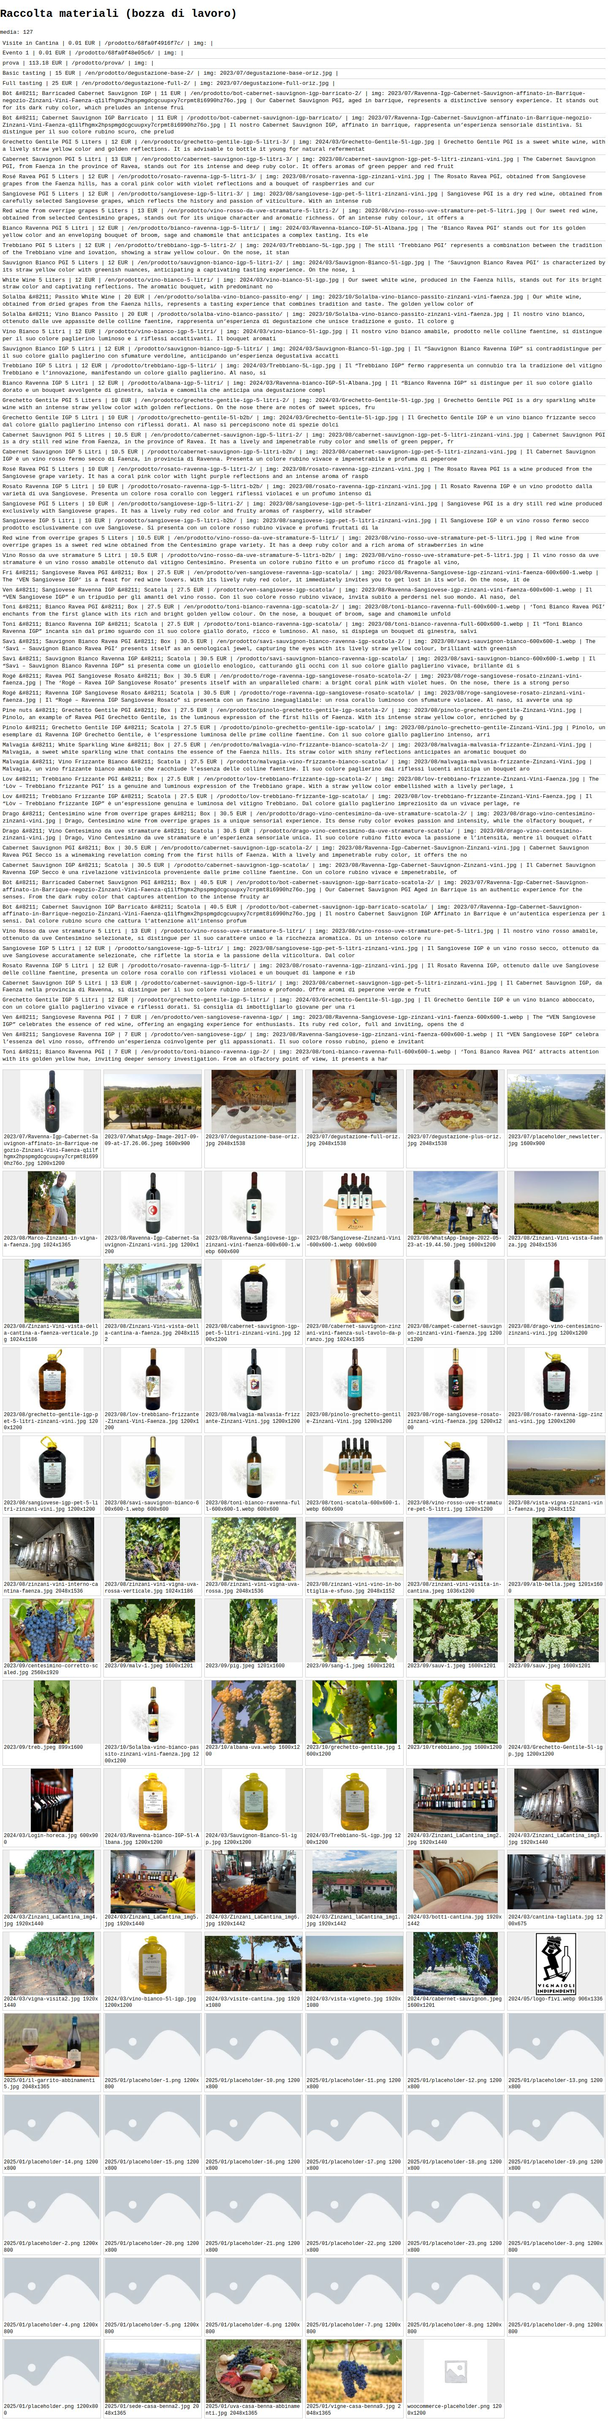
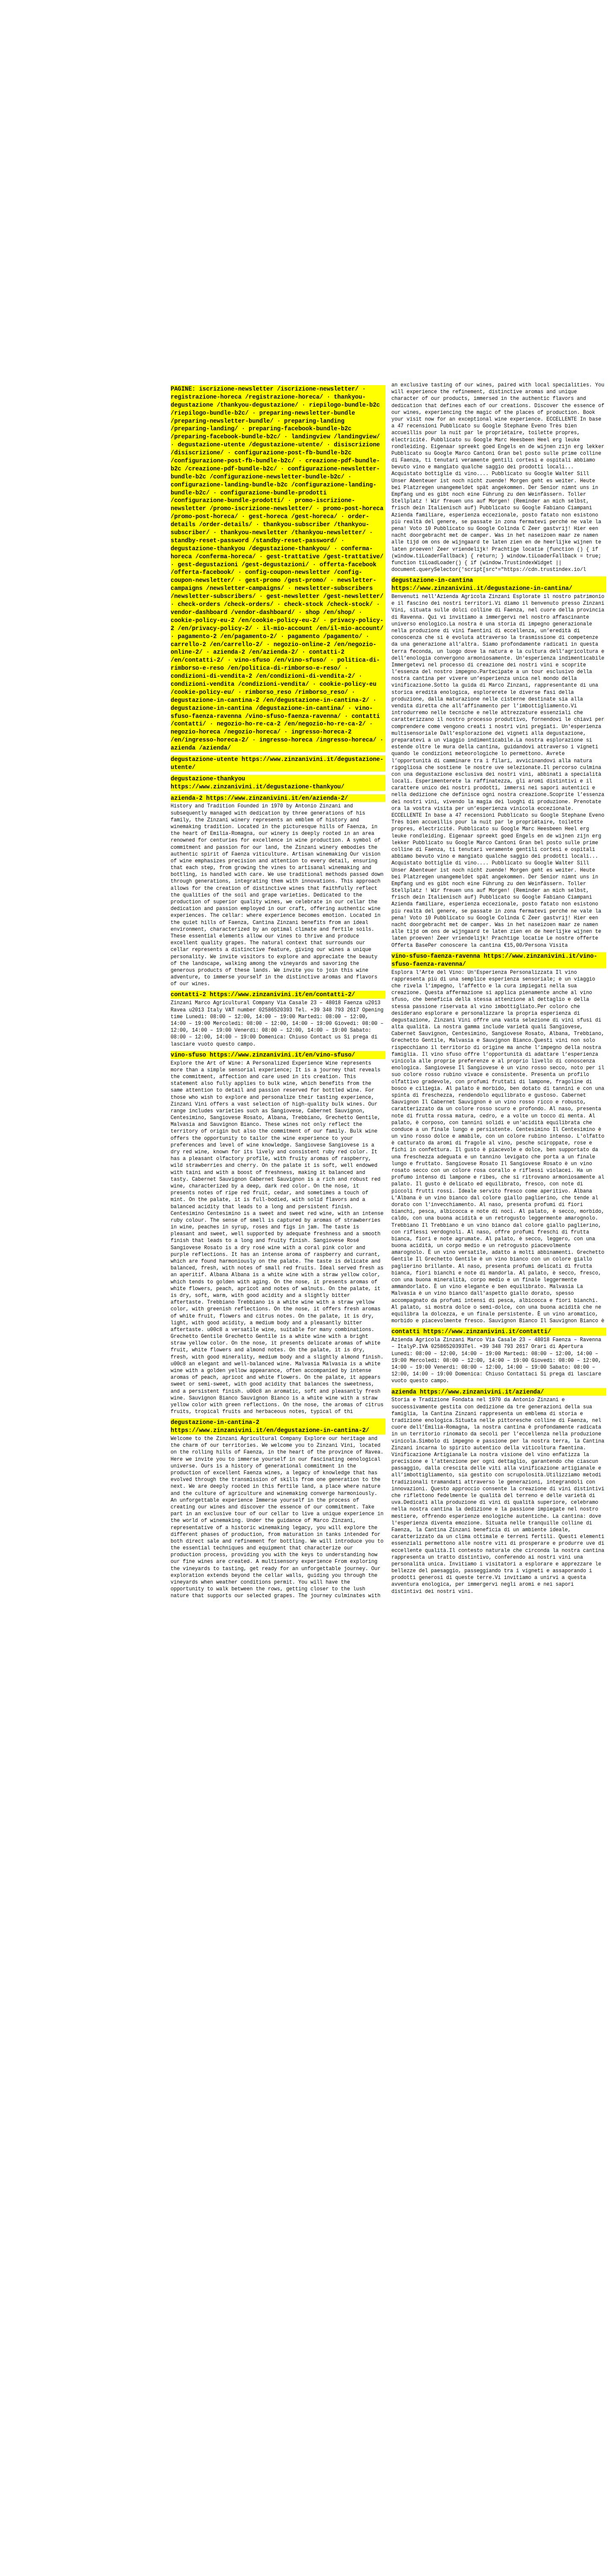
Foto e screenshot: zinzani-vini  [skip ci]

diff --git a/zinzani-vini/index.html b/zinzani-vini/index.html
@@ -11,48 +11,48 @@ var e=document.createElement('div');e.innerHTML='<h3>'+x.slug+' '+x.link+'</h3>'
 var s=document.createElement('script');s.src='https://www.zinzanivini.it/wp-json/wp/v2/pages?per_page=60&_jsonp=pg';document.head.appendChild(s);
 </script>
 <!-- foto del sito attuale:
-https://www.zinzanivini.it/wp-content/uploads/2023/08/vista-vigna-zinzani-vini-faenza.jpg
-https://www.zinzanivini.it/wp-content/uploads/2023/08/Zinzani-Vini-vista-Faenza.jpg
-https://www.zinzanivini.it/wp-content/uploads/2024/03/vista-vigneto.jpg
-https://www.zinzanivini.it/wp-content/uploads/2024/03/Zinzani_laCantina_img1.jpg
-https://www.zinzanivini.it/wp-content/uploads/2024/03/Zinzani_LaCantina_img2.jpg
-https://www.zinzanivini.it/wp-content/uploads/2024/03/Zinzani_LaCantina_img3.jpg
-https://www.zinzanivini.it/wp-content/uploads/2024/03/Zinzani_LaCantina_img4.jpg
-https://www.zinzanivini.it/wp-content/uploads/2024/03/Zinzani_LaCantina_img5.jpg
-https://www.zinzanivini.it/wp-content/uploads/2024/03/Zinzani_LaCantina_img6.jpg
-https://www.zinzanivini.it/wp-content/uploads/2024/03/botti-cantina.jpg
-https://www.zinzanivini.it/wp-content/uploads/2024/03/visite-cantina.jpg
-https://www.zinzanivini.it/wp-content/uploads/2024/03/vigna-visita2.jpg
-https://www.zinzanivini.it/wp-content/uploads/2023/08/zinzani-vini-interno-cantina-faenza.jpg
-https://www.zinzanivini.it/wp-content/uploads/2023/08/zinzani-vini-vino-in-bottiglia-e-sfuso.jpg
-https://www.zinzanivini.it/wp-content/uploads/2023/08/Zinzani-Vini-vista-della-cantina-a-faenza.jpg
-https://www.zinzanivini.it/wp-content/uploads/2023/08/zinzani-vini-visita-in-cantina.jpeg
-https://www.zinzanivini.it/wp-content/uploads/2023/08/Marco-Zinzani-in-vigna-a-faenza.jpg
-https://www.zinzanivini.it/wp-content/uploads/2023/08/zinzani-vini-vigna-uva-rossa.jpg
-https://www.zinzanivini.it/wp-content/uploads/2023/09/centesimino-corretto-scaled.jpg
-https://www.zinzanivini.it/wp-content/uploads/2023/09/sang-1.jpeg
-https://www.zinzanivini.it/wp-content/uploads/2023/09/sauv-1.jpeg
-https://www.zinzanivini.it/wp-content/uploads/2023/10/albana-uva.webp
-https://www.zinzanivini.it/wp-content/uploads/2023/10/grechetto-gentile.jpg
-https://www.zinzanivini.it/wp-content/uploads/2023/10/trebbiano.jpg
-https://www.zinzanivini.it/wp-content/uploads/2024/04/cabernet-sauvignon.jpeg
-https://www.zinzanivini.it/wp-content/uploads/2023/07/degustazione-base-oriz.jpg
-https://www.zinzanivini.it/wp-content/uploads/2023/07/degustazione-full-oriz.jpg
-https://www.zinzanivini.it/wp-content/uploads/2023/07/degustazione-plus-oriz.jpg
-https://www.zinzanivini.it/wp-content/uploads/2023/08/campet-cabernet-sauvignon-zinzani-vini-faenza.jpg
-https://www.zinzanivini.it/wp-content/uploads/2023/08/drago-vino-centesimino-zinzani-vini.jpg
-https://www.zinzanivini.it/wp-content/uploads/2023/08/roge-sangiovese-rosato-zinzani-vini-faenza.jpg
-https://www.zinzanivini.it/wp-content/uploads/2023/08/pinolo-grechetto-gentile-Zinzani-Vini.jpg
-https://www.zinzanivini.it/wp-content/uploads/2023/08/lov-trebbiano-frizzante-Zinzani-Vini-Faenza.jpg
-https://www.zinzanivini.it/wp-content/uploads/2023/08/malvagia-malvasia-frizzante-Zinzani-Vini.jpg
-https://www.zinzanivini.it/wp-content/uploads/2023/08/savi-sauvignon-bianco-600x600-1.webp
-https://www.zinzanivini.it/wp-content/uploads/2023/08/toni-bianco-ravenna-full-600x600-1.webp
-https://www.zinzanivini.it/wp-content/uploads/2023/08/Ravenna-Sangiovese-igp-zinzani-vini-faenza-600x600-1.webp
-https://www.zinzanivini.it/wp-content/uploads/2023/07/Ravenna-Igp-Cabernet-Sauvignon-affinato-in-Barrique-negozio-Zinzani-Vini-Faenza-q1ilfhgmx2hpspmgdcgcuupxy7crpmt8i6990hz76o.jpg
-https://www.zinzanivini.it/wp-content/uploads/2023/10/Solalba-vino-bianco-passito-zinzani-vini-faenza.jpg
-https://www.zinzanivini.it/wp-content/uploads/2023/08/Ravenna-Igp-Cabernet-Sauvignon-Zinzani-vini.jpg
-https://www.zinzanivini.it/wp-content/uploads/2023/08/sangiovese-igp-pet-5-litri-zinzani-vini.jpg
-https://www.zinzanivini.it/wp-content/uploads/2024/03/Ravenna-bianco-IGP-5l-Albana.jpg
-https://www.zinzanivini.it/wp-content/uploads/2023/08/cabernet-sauvignon-zinzani-vini-faenza-sul-tavolo-da-pranzo.jpg
+img/80c253a19c12.jpg
+img/a57a3fba0081.jpg
+img/de522bf22fe0.jpg
+img/b55d65a03ca2.jpg
+img/ce86a408e32d.jpg
+img/91a90fc7ea31.jpg
+img/6655a6fd863b.jpg
+img/9561b6dadb1c.jpg
+img/a6e7acb3fc51.jpg
+img/cce94d2fe78e.jpg
+img/d82b09d1a1bc.jpg
+img/00fbbf9b0a3b.jpg
+img/72608f5d5fb2.jpg
+img/d0b7f8fc5525.jpg
+img/45d77ea0625c.jpg
+img/776ca3bcacbc.jpg
+img/0b9cbcf7e1c7.jpg
+img/46b431e2f991.jpg
+img/ebe73baaeb8b.jpg
+img/9ed5e722481f.jpg
+img/ca0a9c8989d2.jpg
+img/059fc17b2f6c.webp
+img/fbbfe7143ecc.jpg
+img/398a6ff4e014.jpg
+img/0031c03a0b01.jpg
+img/b7324e1cf471.jpg
+img/3a586e06c35d.jpg
+img/116fa557403c.jpg
+img/75bfd2281319.jpg
+img/56b0211e7c02.jpg
+img/4a9e912a0edc.jpg
+img/d3237302331e.jpg
+img/0e748f5576eb.jpg
+img/e2152799d460.jpg
+img/ff6978dc6d4b.webp
+img/1a31bc52e084.webp
+img/8812bde40b59.webp
+img/42ae3d052213.jpg
+img/0570d15297fa.jpg
+img/70a8edd93a42.jpg
+img/8096fbd1089f.jpg
+img/a2e529911794.jpg
+img/3aa121470c2b.jpg
 -->
 </body></html>
